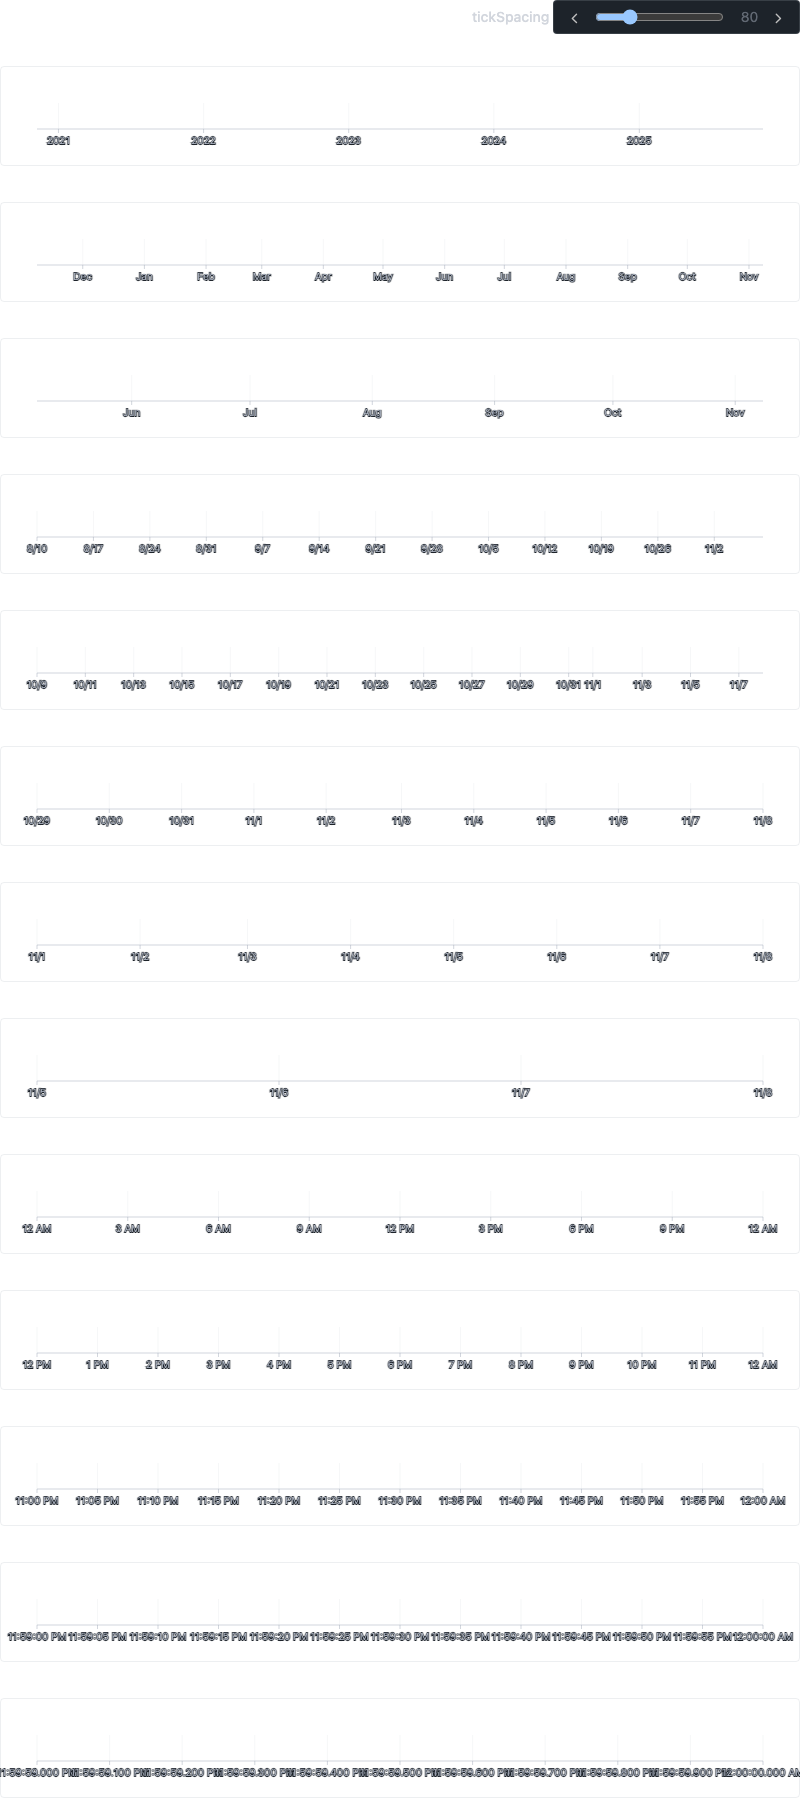
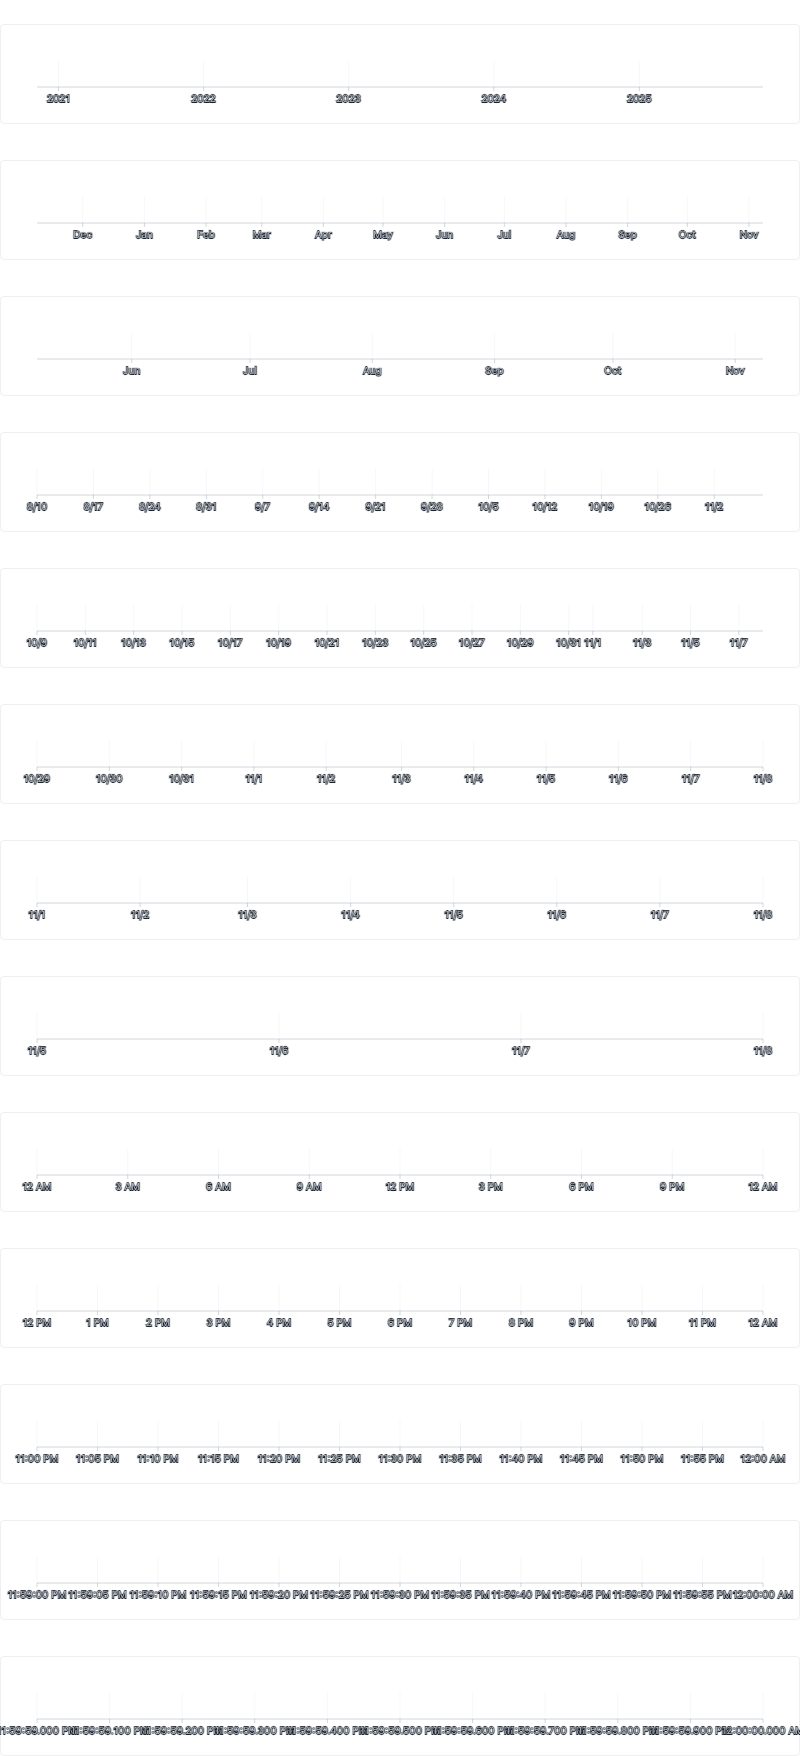
Remove controls from screenshots for more examples

diff --git a/docs/src/examples/Marker/spline.svelte b/docs/src/examples/Marker/spline.svelte
@@ -33,7 +33,7 @@
 	const markerTypes = ['arrow', 'triangle', 'dot', 'circle', 'circle-stroke', 'line'] as const;
 </script>
 
-<div class="grid grid-cols-[auto_auto_auto_auto_1fr_1fr_1fr] gap-2 mb-2">
+<div class="grid grid-cols-[auto_auto_auto_auto_1fr_1fr_1fr] gap-2 mb-2 lc-example-controls">
 	<Field label="Start" let:id>
 		<Switch bind:checked={markerStart} {id} size="md" />
 	</Field>

diff --git a/docs/src/examples/Marker/spline-w-thicker-stroke.svelte b/docs/src/examples/Marker/spline-w-thicker-stroke.svelte
@@ -33,7 +33,7 @@
 	export { data };
 </script>
 
-<div class="grid grid-cols-[auto_auto_auto_auto_1fr_1fr_1fr] gap-2 mb-2">
+<div class="grid grid-cols-[auto_auto_auto_auto_1fr_1fr_1fr] gap-2 mb-2 lc-example-controls">
 	<Field label="Start" let:id>
 		<Switch bind:checked={markerStart} {id} size="md" />
 	</Field>

diff --git a/docs/src/examples/Polygon/simple.svelte b/docs/src/examples/Polygon/simple.svelte
@@ -9,7 +9,7 @@
 	export { data };
 </script>
 
-<div class="flex gap-2 mb-2">
+<div class="flex gap-2 mb-2 lc-example-controls">
 	<RangeField label="rotate" labelPlacement="left" bind:value={rotate} max={360} />
 	<RangeField label="cornerRadius" labelPlacement="left" bind:value={cornerRadius} max={50} />
 </div>

diff --git a/docs/src/examples/Text/playground.svelte b/docs/src/examples/Text/playground.svelte
@@ -31,7 +31,7 @@
 	export { data };
 </script>
 
-<div class="grid gap-2 mb-2">
+<div class="grid gap-2 mb-2 lc-example-controls">
 	<TextField label="value" bind:value={config.value} />
 	<div class="grid grid-cols-[1fr_1fr_1fr] gap-2">
 		<RangeField label="x" bind:value={config.x} min={-300} max={300} />

diff --git a/docs/src/examples/Marker/orientation.svelte b/docs/src/examples/Marker/orientation.svelte
@@ -26,7 +26,7 @@
 	export { data };
 </script>
 
-<div class="grid grid-cols-[auto_1fr_1fr_1fr] gap-2 mb-2">
+<div class="grid grid-cols-[auto_1fr_1fr_1fr] gap-2 mb-2 lc-example-controls">
 	<Field label="Tweened" let:id>
 		<Switch bind:checked={tweened} {id} size="md" />
 	</Field>

diff --git a/docs/src/examples/Marker/line.svelte b/docs/src/examples/Marker/line.svelte
@@ -25,7 +25,7 @@
 	export { data };
 </script>
 
-<div class="grid grid-cols-[60px_60px] gap-2 mb-2">
+<div class="grid grid-cols-[60px_60px] gap-2 mb-2 lc-example-controls">
 	<Field label="Start" let:id>
 		<Switch bind:checked={markerStart} {id} size="md" />
 	</Field>

diff --git a/docs/src/examples/Polygon/custom-points.svelte b/docs/src/examples/Polygon/custom-points.svelte
@@ -8,7 +8,7 @@
 	export { data };
 </script>
 
-<div class="flex gap-2 mb-2">
+<div class="flex gap-2 mb-2 lc-example-controls">
 	<RangeField label="cornerRadius" labelPlacement="left" bind:value={cornerRadius} max={50} />
 </div>
 

diff --git a/docs/src/examples/Axis/time-scale-auto-format-filtering.svelte b/docs/src/examples/Axis/time-scale-auto-format-filtering.svelte
@@ -112,7 +112,7 @@
 	min={10}
 	max={300}
 	step={10}
-	class="justify-self-end mb-2"
+	class="justify-self-end mb-2 lc-example-controls"
 />
 
 <div class="grid gap-3">

diff --git a/docs/src/examples/Axis/time-scale-auto-multiline.svelte b/docs/src/examples/Axis/time-scale-auto-multiline.svelte
@@ -112,7 +112,7 @@
 	min={10}
 	max={300}
 	step={10}
-	class="justify-self-end mb-2"
+	class="justify-self-end mb-2 lc-example-controls"
 />
 
 <div class="grid gap-3">

diff --git a/docs/src/examples/Axis/time-scale-auto.svelte b/docs/src/examples/Axis/time-scale-auto.svelte
@@ -112,7 +112,7 @@
 	min={10}
 	max={300}
 	step={10}
-	class="justify-self-end mb-2"
+	class="justify-self-end mb-2 lc-example-controls"
 />
 
 <div class="grid gap-3">

diff --git a/docs/src/examples/Axis/time-scale-brush-multiline.svelte b/docs/src/examples/Axis/time-scale-brush-multiline.svelte
@@ -19,7 +19,7 @@
 	min={10}
 	max={300}
 	step={10}
-	class="justify-self-end mb-2"
+	class="justify-self-end mb-2 lc-example-controls"
 />
 
 <Chart

diff --git a/docs/src/examples/Axis/time-scale-brush.svelte b/docs/src/examples/Axis/time-scale-brush.svelte
@@ -19,7 +19,7 @@
 	min={10}
 	max={300}
 	step={10}
-	class="justify-self-end mb-2"
+	class="justify-self-end mb-2 lc-example-controls"
 />
 
 <Chart
